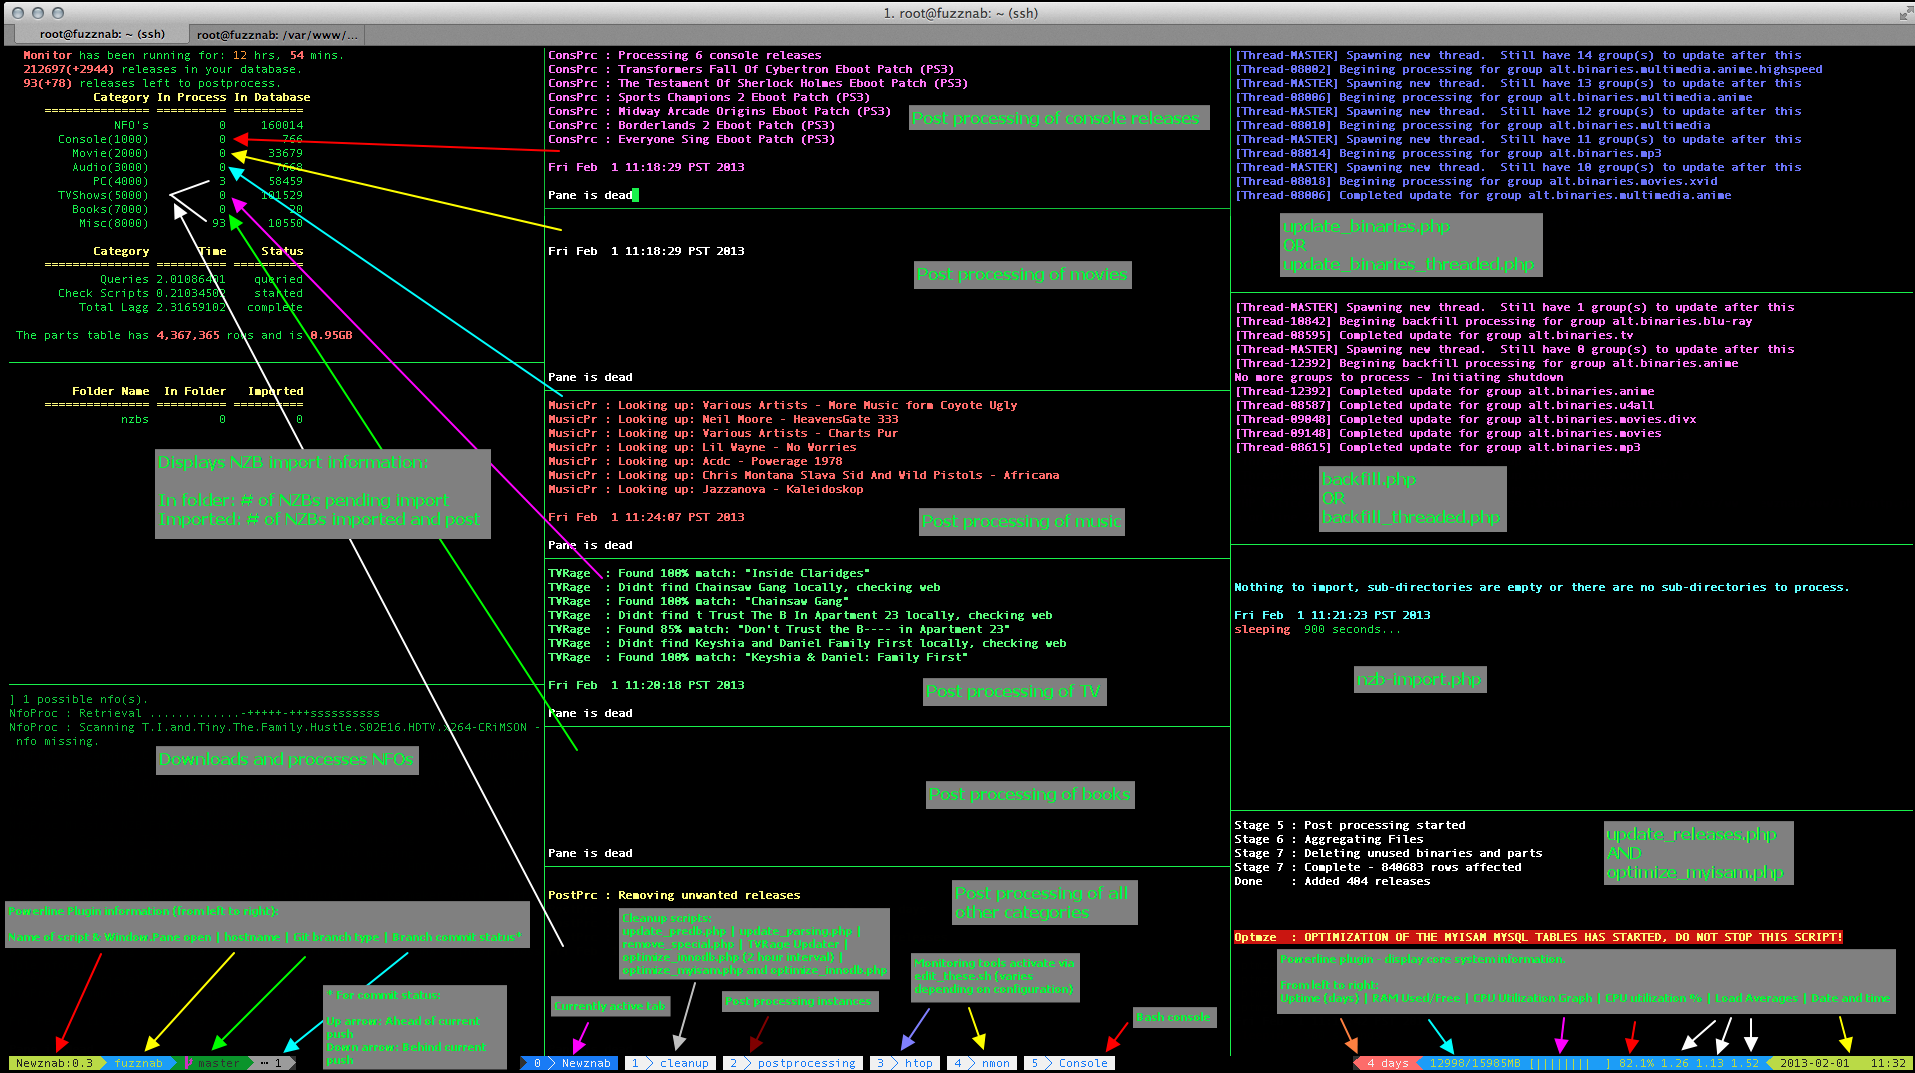
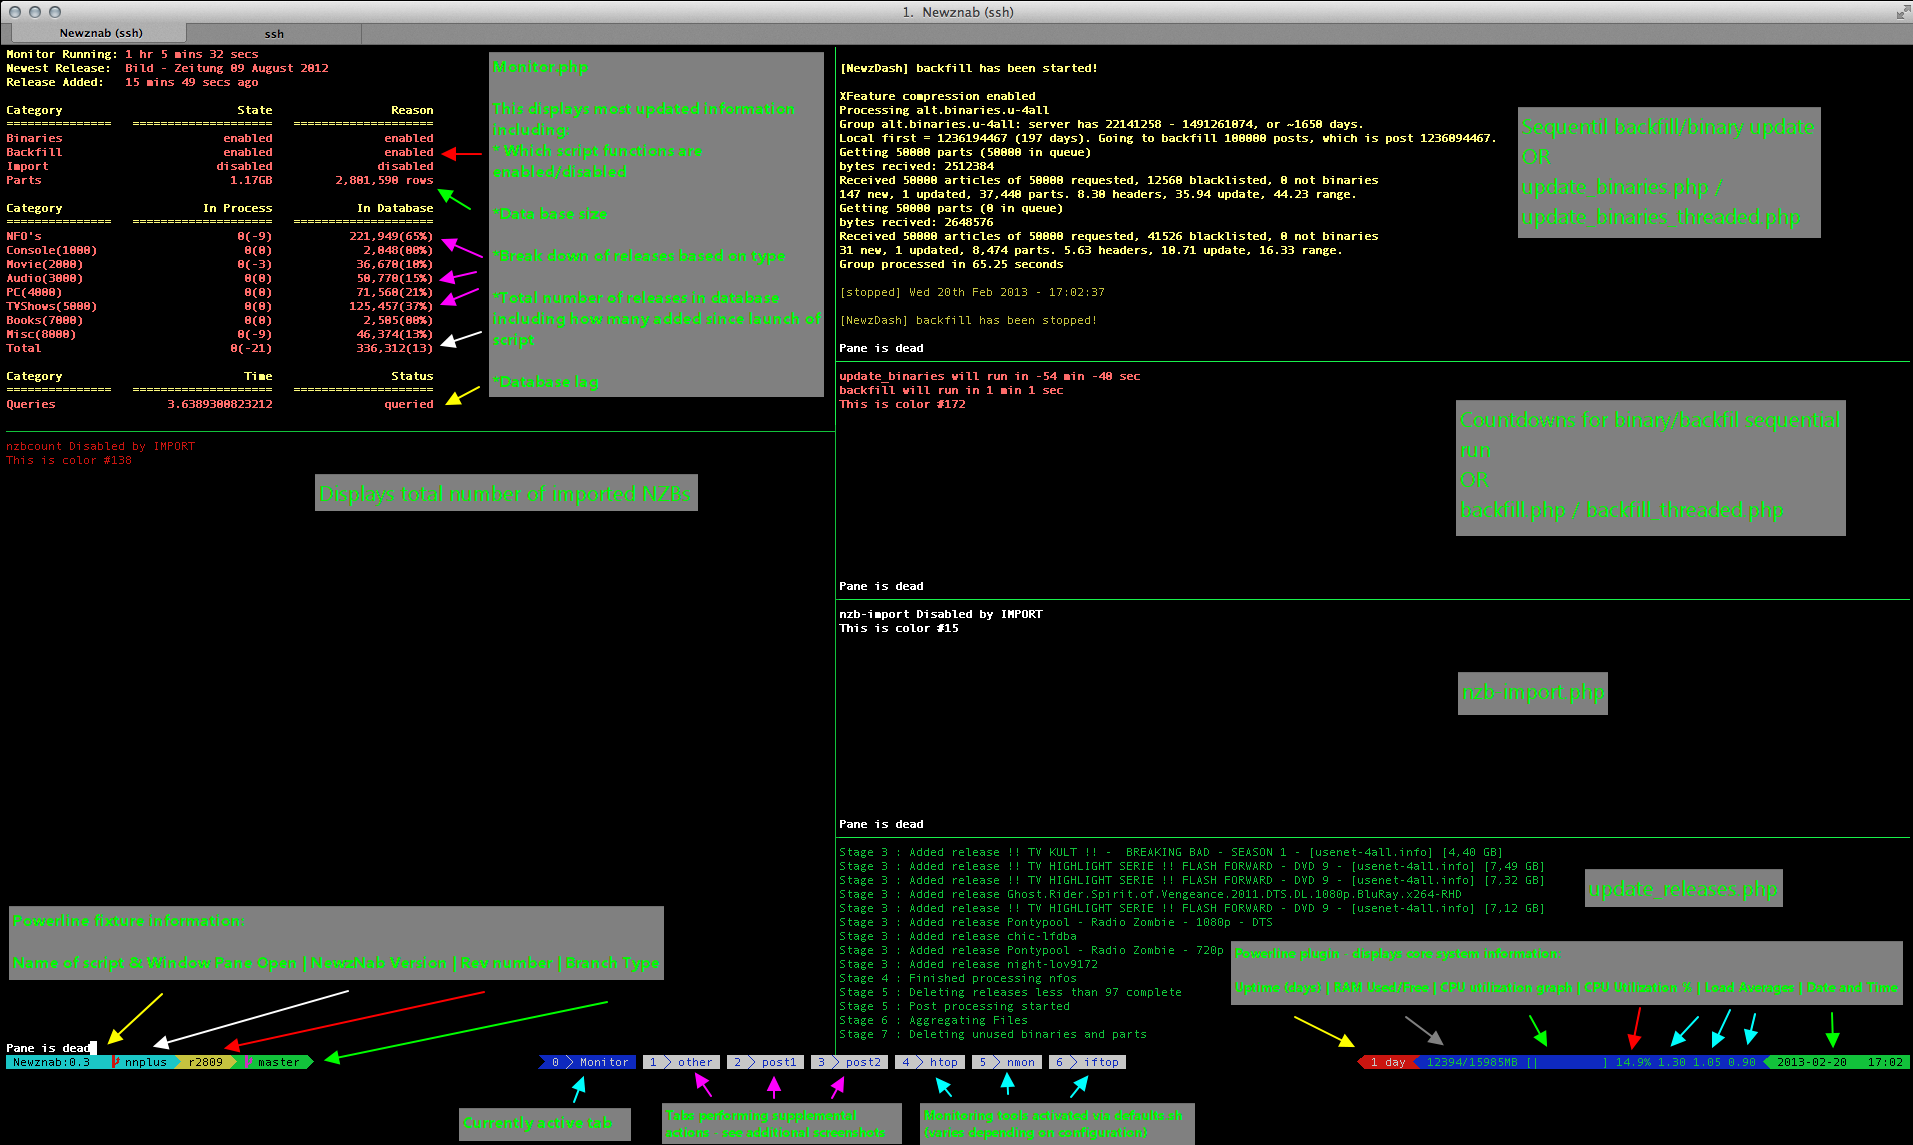
updated images of scripts in action

diff --git a/README.md b/README.md
@@ -80,6 +80,9 @@
 
 <hr>
 ![Newznab-tmux](https://raw.github.com/jonnyboy/newznab-tmux/master/images/newznab-tmux.png)
+![Newznab-tmux](https://raw.github.com/jonnyboy/newznab-tmux/master/images/newznab-tmux-1.png)
+![Newznab-tmux](https://raw.github.com/jonnyboy/newznab-tmux/master/images/newznab-tmux-2.png)
+![Newznab-tmux](https://raw.github.com/jonnyboy/newznab-tmux/master/images/newznab-tmux-3.png)
 
 <hr>
  * If you find these scripts useful and would like to show your support, please use one of the donation links below. Donations are greatly appreciated. Thank you
